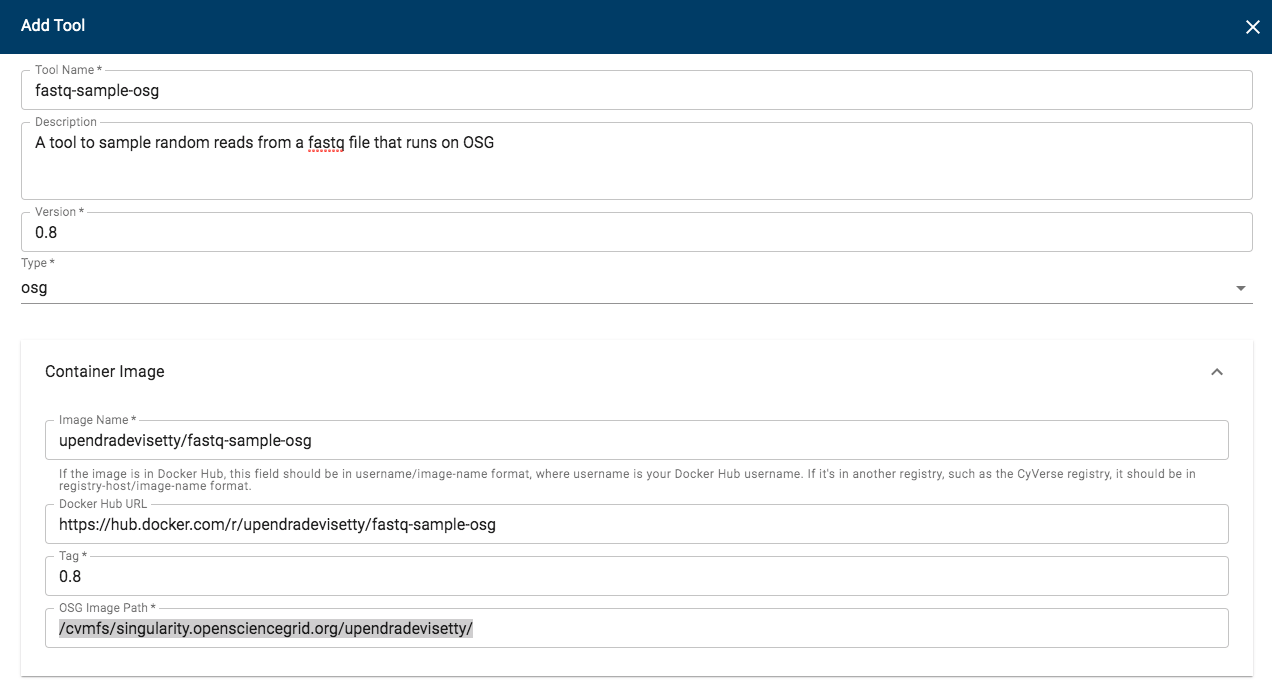
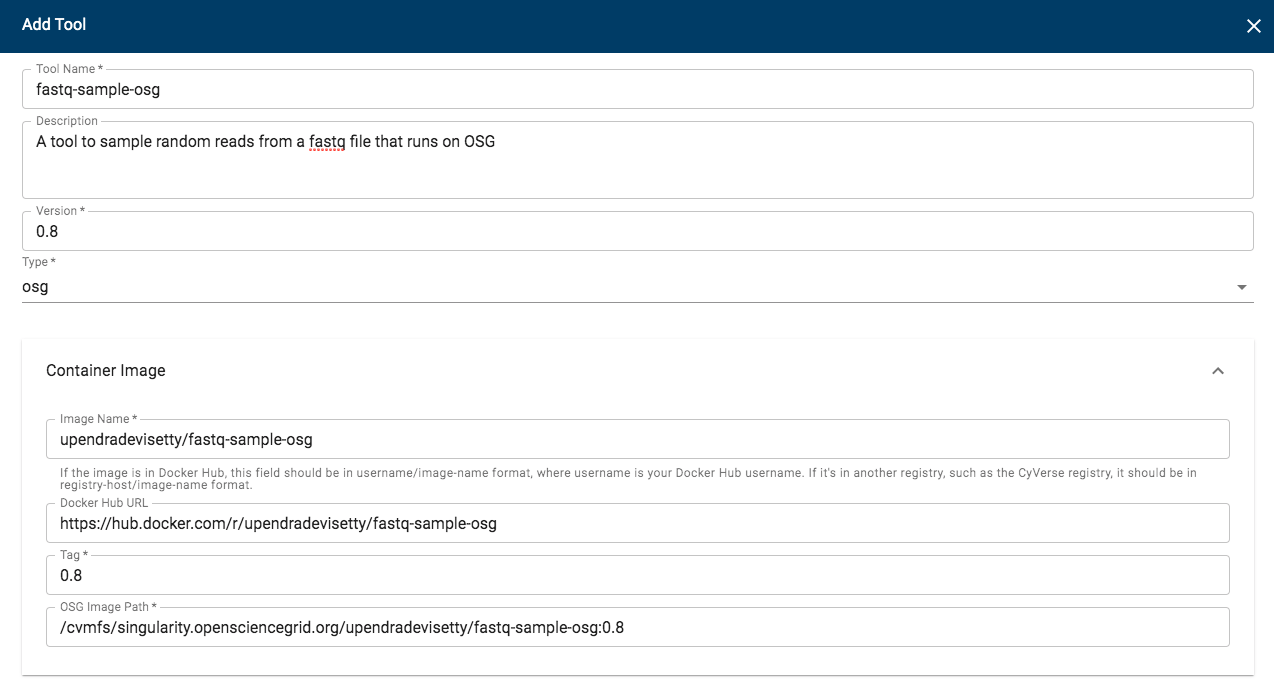
Fix errors

diff --git a/osg.rst b/osg.rst
@@ -108,81 +108,83 @@ This is the first step in the process of making OSG tool integration in DE. The 
 
 1.5 An upload file `upload-files` at `/usr/bin` in the container
 
-We will use `fastq-sample <https://homes.cs.washington.edu/~dcjones/fastq-tools/fastq-sample.html>`_ for integrating as OSG-tool in DE. Let's first create a Docker image which satisfies the above requirements
+We will use `fastq-sample <https://homes.cs.washington.edu/~dcjones/fastq-tools/fastq-sample.html>`_ for integrating as OSG-tool in DE. Let's first create a Dockerfile using your favorite editor which satisfies the above requirements
 
-.. code-block::bash
+.. code-block:: bash
+  
+  $ mkdir fastq-sample-osg && cd fastq-sample-osg
 
-    FROM ubuntu:xenial
-    MAINTAINER Upendra Devisetty <upendra@cyverse.org>
+  $ wget https://raw.githubusercontent.com/upendrak/fastq-sample-osg/master/upload-files
 
-    RUN mkdir /cvmfs /work
+  $ wget https://raw.githubusercontent.com/upendrak/fastq-sample-osg/master/wrapper
 
-    RUN apt-get update \
-        && apt-get install -y lsb curl apt-transport-https python3 python-requests libfuse2 wget gcc make libpcre3-dev libz-dev 
+.. code-block:: bash
 
-    # Install fastq-tools
-    RUN wget http://homes.cs.washington.edu/~dcjones/fastq-tools/fastq-tools-0.8.tar.gz
-    RUN tar xvf fastq-tools-0.8.tar.gz
-    WORKDIR fastq-tools-0.8
-    RUN ./configure
-    RUN  make install fastq==0.8
+  $ vi Dockerfile
 
-    WORKDIR /work
+  FROM ubuntu:xenial
+  MAINTAINER Upendra Devisetty <upendra@cyverse.org>
 
-    # Define the iRODS package.
-    ENV ICMD_BASE="https://files.renci.org/pub/irods/releases/4.1.10/ubuntu14"
-    ENV ICMD_PKG="irods-icommands-4.1.10-ubuntu14-x86_64.deb"
+  RUN mkdir /cvmfs /work
 
-    # Install icommands.
-    RUN curl -o "$ICMD_PKG" "$ICMD_BASE/$ICMD_PKG" \
-            && dpkg -i "$ICMD_PKG" \
-            && rm -f "$ICMD_PKG"
+  RUN apt-get update \
+      && apt-get install -y lsb curl apt-transport-https python3 python-requests libfuse2 wget gcc make libpcre3-dev libz-dev 
 
-    # Install the wrapper script and the script to upload the output files.
-    ADD wrapper /usr/bin/wrapper
-    ADD upload-files /usr/bin/upload-files
+  # Install fastq-tools
+  RUN wget http://homes.cs.washington.edu/~dcjones/fastq-tools/fastq-tools-0.8.tar.gz
+  RUN tar xvf fastq-tools-0.8.tar.gz
+  WORKDIR fastq-tools-0.8
+  RUN ./configure
+  RUN  make install fastq==0.8
 
-    # Make the wrapper script the default command.
-    CMD ["wrapper"]
+  WORKDIR /work
 
-- Here is the link to the `Dockerfile <https://github.com/upendrak/fastq-sample-osg/blob/master/Dockerfile>`_
+  # Define the iRODS package.
+  ENV ICMD_BASE="https://files.renci.org/pub/irods/releases/4.1.10/ubuntu14"
+  ENV ICMD_PKG="irods-icommands-4.1.10-ubuntu14-x86_64.deb"
 
-- Here is the link to the `wrapper script <https://github.com/upendrak/fastq-sample-osg/blob/master/wrapper>`_
+  # Install icommands.
+  RUN curl -o "$ICMD_PKG" "$ICMD_BASE/$ICMD_PKG" \
+          && dpkg -i "$ICMD_PKG" \
+          && rm -f "$ICMD_PKG"
 
-- Here is the link to the `upload-files script <https://github.com/upendrak/fastq-sample-osg/blob/master/upload-files>`_
+  # Install the wrapper script and the script to upload the output files.
+  ADD wrapper /usr/bin/wrapper
+  ADD upload-files /usr/bin/upload-files
 
+  # Make the wrapper script the default command.
+  CMD ["wrapper"]
+
+.. Note::
+
+  The ``Dockerfile`` and ``wrapper`` files are specific for ``fastq-sample`` tool. If you want to create OSG tool for your tool of interest, replace the specific parts of the scripts
 **2. Build and push the Docker image to Dockerhub**
 
-Once you create the Dockerfile, you should build the Docker image locally and push it to Dockerhub (you can also do an automated build)
+Once you create the Dockerfile, next step is to build the Docker image and push it to Dockerhub manually (you can also do an `automated build <https://learning.cyverse.org/projects/container_camp_workshop_2019/en/latest/docker/dockeradvanced.html#automated-docker-image-building-from-github>`_)
 
-.. code-block::
+.. code-block:: bash
 
    $ docker build -t upendradevisetty/fastq-sample-osg:0.8 .
+
    $ docker push upendradevisetty/fastq-sample-osg:0.8
 
 **3. Test Docker image**
 
-Testing of OSG-RMTA docker image can be done in two ways: Locally using Singularity and on Open Science Grid (OSG)
+Testing of OSG-RMTA docker image can be done in two ways: Locally using Singularity and on Open Science Grid (OSG). Since many users don't have access to OSG, we recommed that you test it locally. 
 
 .. Important::
   
-  This is very important step as it is very hard to troubleshoot after you integrate the OSG tool in DE. 
+  This is very important step as it is very hard to troubleshoot after you integrate the OSG tool in DE
 
-3.1. Creating an environment for testing docker image locally
-
-.. Note::
-  
-  Since singularity will be used for testing local images, make sure you install Singularity on your computer/server
-
-3.1.1. Create a folder with input file(s) and output folder on CyVerse Datastore
+3.1 Create a folder with input file(s) and output folder on CyVerse Datastore
 
 For this example, the only input file is `Read1.fastq`. I have this input file in this path on Datastore `/iplant/home/upendra_35/fastq-sample-osg/Read1.fastq` and output folder in this path on Datastore `/iplant/home/upendra_35/fastq-sample-osg/output`
 
-3.1.2. Create input and output path files
+3.2 Create input and output path files
 
 The next step is to create an input and output path files that contains the paths to the input and output respectively. 
 
-.. code-block::bash
+.. code-block:: bash
 
   $ cat input-paths.txt 
     /iplant/home/upendra_35/fastq-sample-osg/Read1.fastq
@@ -190,11 +192,13 @@ The next step is to create an input and output path files that contains the path
   $ cat output-paths.txt 
     /iplant/home/upendra_35/fastq-sample-osg/output
 
-3.1.3. Create input and output tickets from input and output paths
+3.3 Create input and output tickets from input and output paths files
 
 Using `create-tickets.sh <https://github.com/upendrak/fastq-sample-osg/blob/master/create-tickets.sh>`, create tickets for both inputs and outputs
 
 .. code-block:: bash
+
+  $ wget https://raw.githubusercontent.com/upendrak/fastq-sample-osg/master/create-tickets.sh
 
   $ mkdir sample_data
 
@@ -208,13 +212,13 @@ Using `create-tickets.sh <https://github.com/upendrak/fastq-sample-osg/blob/mast
     # application/vnd.de.path-list+csv; version=1
     3fe4ea0dab5241cfb69420335c0902,/iplant/home/upendra_35/fastq-sample-osg/output 
 
-3.1.4. Create a ``config.json`` file in the `sample_data` folder
+3.4 Create a ``config.json`` file in the `sample_data` folder
 
 Here is an example of ``config.json`` for the `fastq-sample-osg` tool
 
-.. code-block::bash
+.. code-block:: bash
 
-   $ cat sample_data/config.json 
+   $ vi sample_data/config.json 
     {
         "arguments": [
             "-n",
@@ -235,31 +239,31 @@ Here is an example of ``config.json`` for the `fastq-sample-osg` tool
 
 This is similar to running on the commandline like this..
 
-.. code-block::bash
+.. code-block:: bash
 
    $ fastq-sample -n 10 Read1.fastq
 
-3.1.5 Pull the Docker image as singularity file (.sif)
+3.5 Pull the Docker image as singularity file (.sif)
 
 .. Note::
 
-  You need to have Singularity installed first inorder to run this..
+  You need to have `Singularity <https://sylabs.io/guides/3.0/user-guide/installation.html>`_ installed first inorder to run this
 
-.. code-block::bash
+.. code-block:: bash
 
    $ singularity pull docker://upendradevisetty/fastq-sample-osg:0.8
 
-This will create `fastq-sample-osg_0.8.sif` in your working directory
+This will create `fastq-sample-osg_0.8.sif` singularity image in your working directory
 
-3.1.6 Test the singularity image
+3.6 Test the singularity image
 
-Once you have the input and output tickets created, you are ready for the actual test with Singularity image
+Once you have the input, output tickets and config files created, you are ready for the test with Singularity image
 
 .. Note::
 
-   Before you run this, make sure that you remove the irods password onto your system by running ``rm ~/.irods/.irodsA``
+   Before you run this, make sure that you remove the irods password in your system by running ``rm ~/.irods/.irodsA``
 
-.. code-block::bash
+.. code-block:: bash
 
   $ cd sample_data
 
@@ -282,9 +286,12 @@ Once you have the input and output tickets created, you are ready for the actual
 
   It will prompt you to enter your irods passwords several times, if so, then keep pressing the ENTER until the job is successfully finished. The output files will be uploaded to your output folder in datastore.
 
-Once your job has finished, you should expect to see the input (`Read1.fastq`) and output (`sample.fastq`) files in the current working directory and also in the in the output directory. 
+Once your job has finished, you should expect to see the input (``Read1.fastq``) and output (``sample.fastq``) files in the current working directory and also in the in the output directory. 
 
 .. code-block::bash
+
+  $ ls
+
 
   $ ils /iplant/home/upendra_35/fastq-sample-osg/output
     /iplant/home/upendra_35/fastq-sample-osg/output:
@@ -292,19 +299,23 @@ Once your job has finished, you should expect to see the input (`Read1.fastq`) a
       out.txt
       sample.fastq
 
-4. Submit a pull request to OSG github repo for `fastq-sample-osg` tool
+4. Submit a pull request to OSG github repo for ``fastq-sample-osg`` tool
 
-Once the Singularity run works, add your Docker image in `here <https://github.com/opensciencegrid/cvmfs-singularity-sync/blob/master/docker_images.txt>`_. For this particular example, we will add `upendradevisetty/fastq-sample-osg:0.8` in there.
+Once the Singularity run works, add your Docker image in `here <https://github.com/opensciencegrid/cvmfs-singularity-sync/blob/master/docker_images.txt>`_. For this particular example, we will add ``upendradevisetty/fastq-sample-osg:0.8`` in there.
 
 .. Note::
 
   You will have to fork and do a PR for this to work
 
+Here is a screenshot of ``fastq-sample-osg:0.8`` pull request to OSG github repo
+
+|osg-cvmfs|
+
 After the PR is merged, it takes few hours for the image to be available on CVMFS.
 
 5. Integrate DE tool using “Add Tools” option in DE
 
-Now that the `fastq-sample-osg` Docker/Singularity image has been tested, it is now ready to be integrated into DE. 
+After the image is available on OSG, it is now ready to be integrated into DE. 
 
 5.1 Log-in to CyVerse Discovery Environment and click on the "Apps" window
 
@@ -319,7 +330,7 @@ Now that the `fastq-sample-osg` Docker/Singularity image has been tested, it is 
   Image Name: upendradevisetty/fastq-sample-osg
   Docker Hub URL: https://hub.docker.com/r/upendradevisetty/fastq-sample-osg
   Tag: 0.8
-  OSG Image Path: /cvmfs/singularity.opensciencegrid.org/upendradevisetty/
+  OSG Image Path: /cvmfs/singularity.opensciencegrid.org/upendradevisetty/fastq-sample-osg:0.8
 
 |add_tool_osg|
 
@@ -355,3 +366,7 @@ Post your question using the intercom button on the bottom right of this page:
 .. |add_tool_osg| image:: img/add_tool_form_osg.png
   :height: 300
   :width: 500
+
+.. |osg-cvmfs| image:: img/add_tool_form_osg_cvmfs.png
+  :height: 200
+  :width: 300

diff --git a/index.rst b/index.rst
@@ -11,7 +11,7 @@
 Tool integration in CyVerse `Discovery Environment <https://de.cyverse.org/>`_ can be done either for executable tool (includes osg) or interactive tool.
 
 .. toctree::
-        :maxdepth: 1
+        :maxdepth: 2
 
         Executable Tools <self>
         Open-Science-Grid (OSG) Tools <osg.rst>
@@ -163,9 +163,7 @@ Now that the `fastq-sample` Docker image has been tested, it is now ready to be 
 
 |add_tool|
 
-3.3 Procede to create an app in Discovery Environment
-
-The next step is the
+Procede to create an app in Discovery Environment
 
 ----
 
